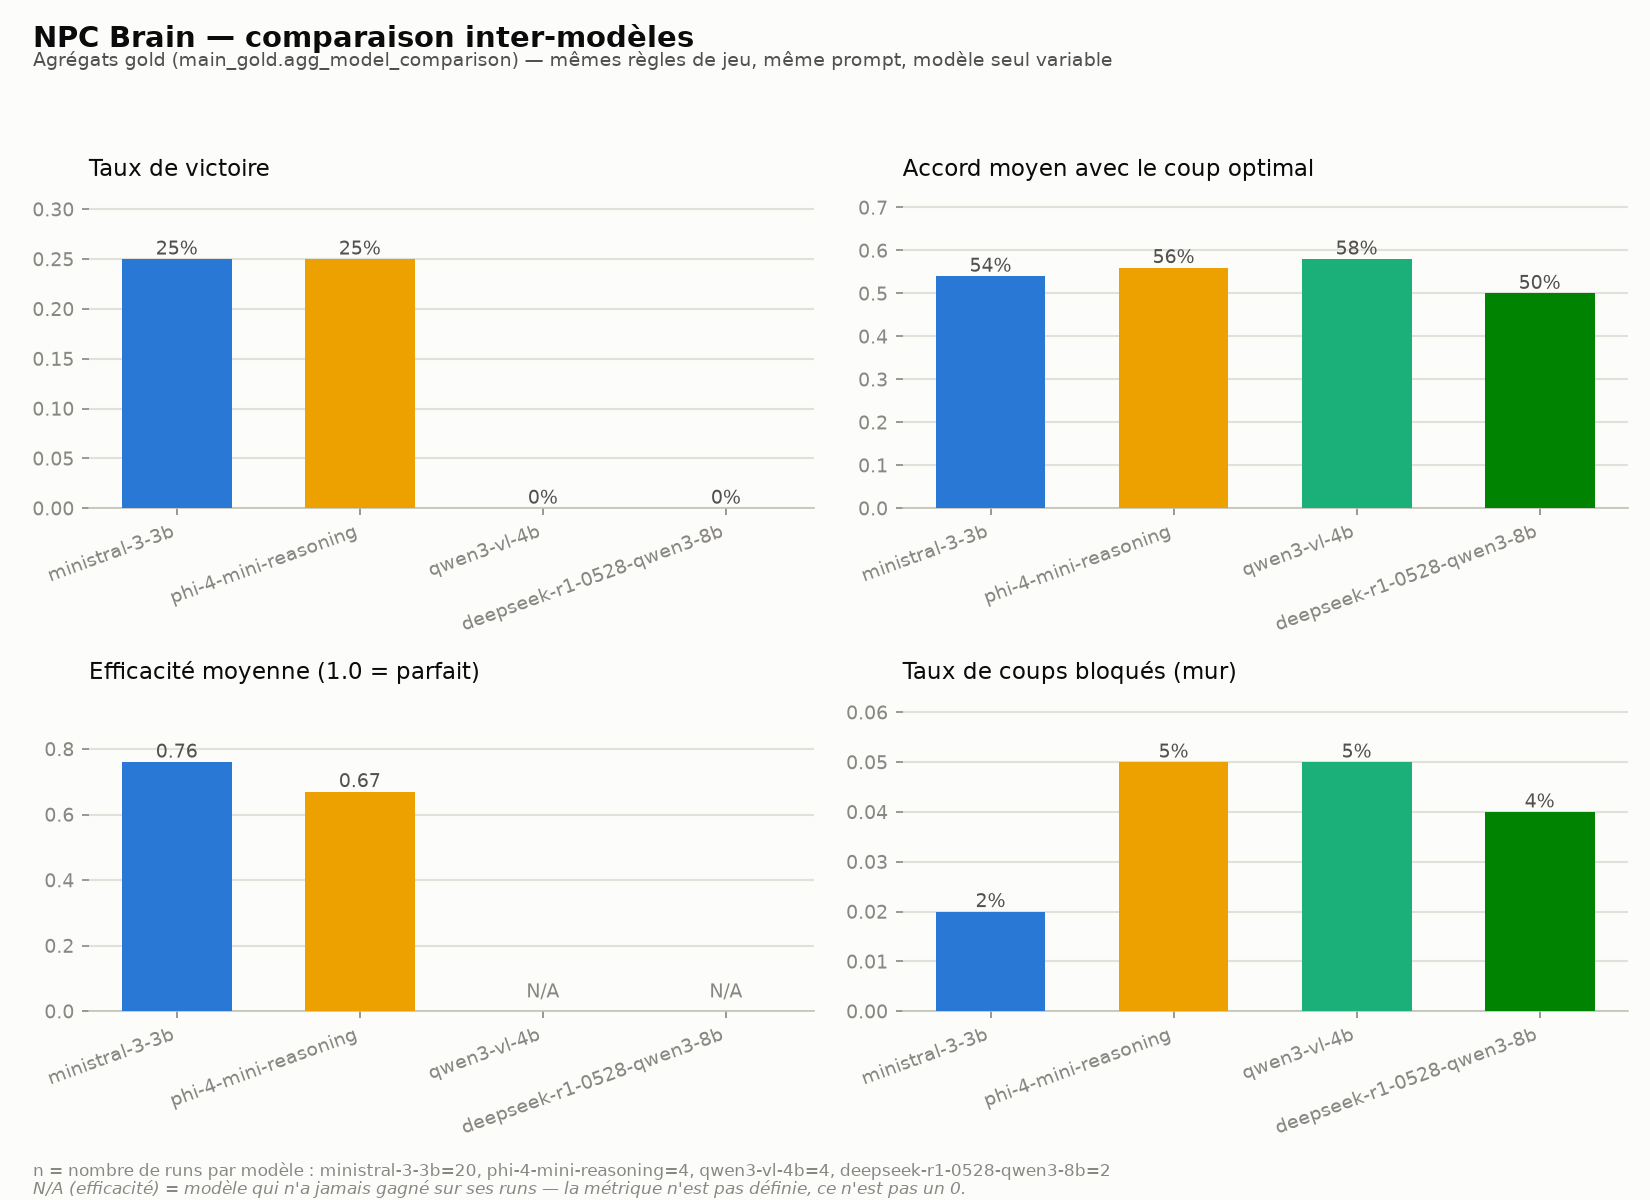
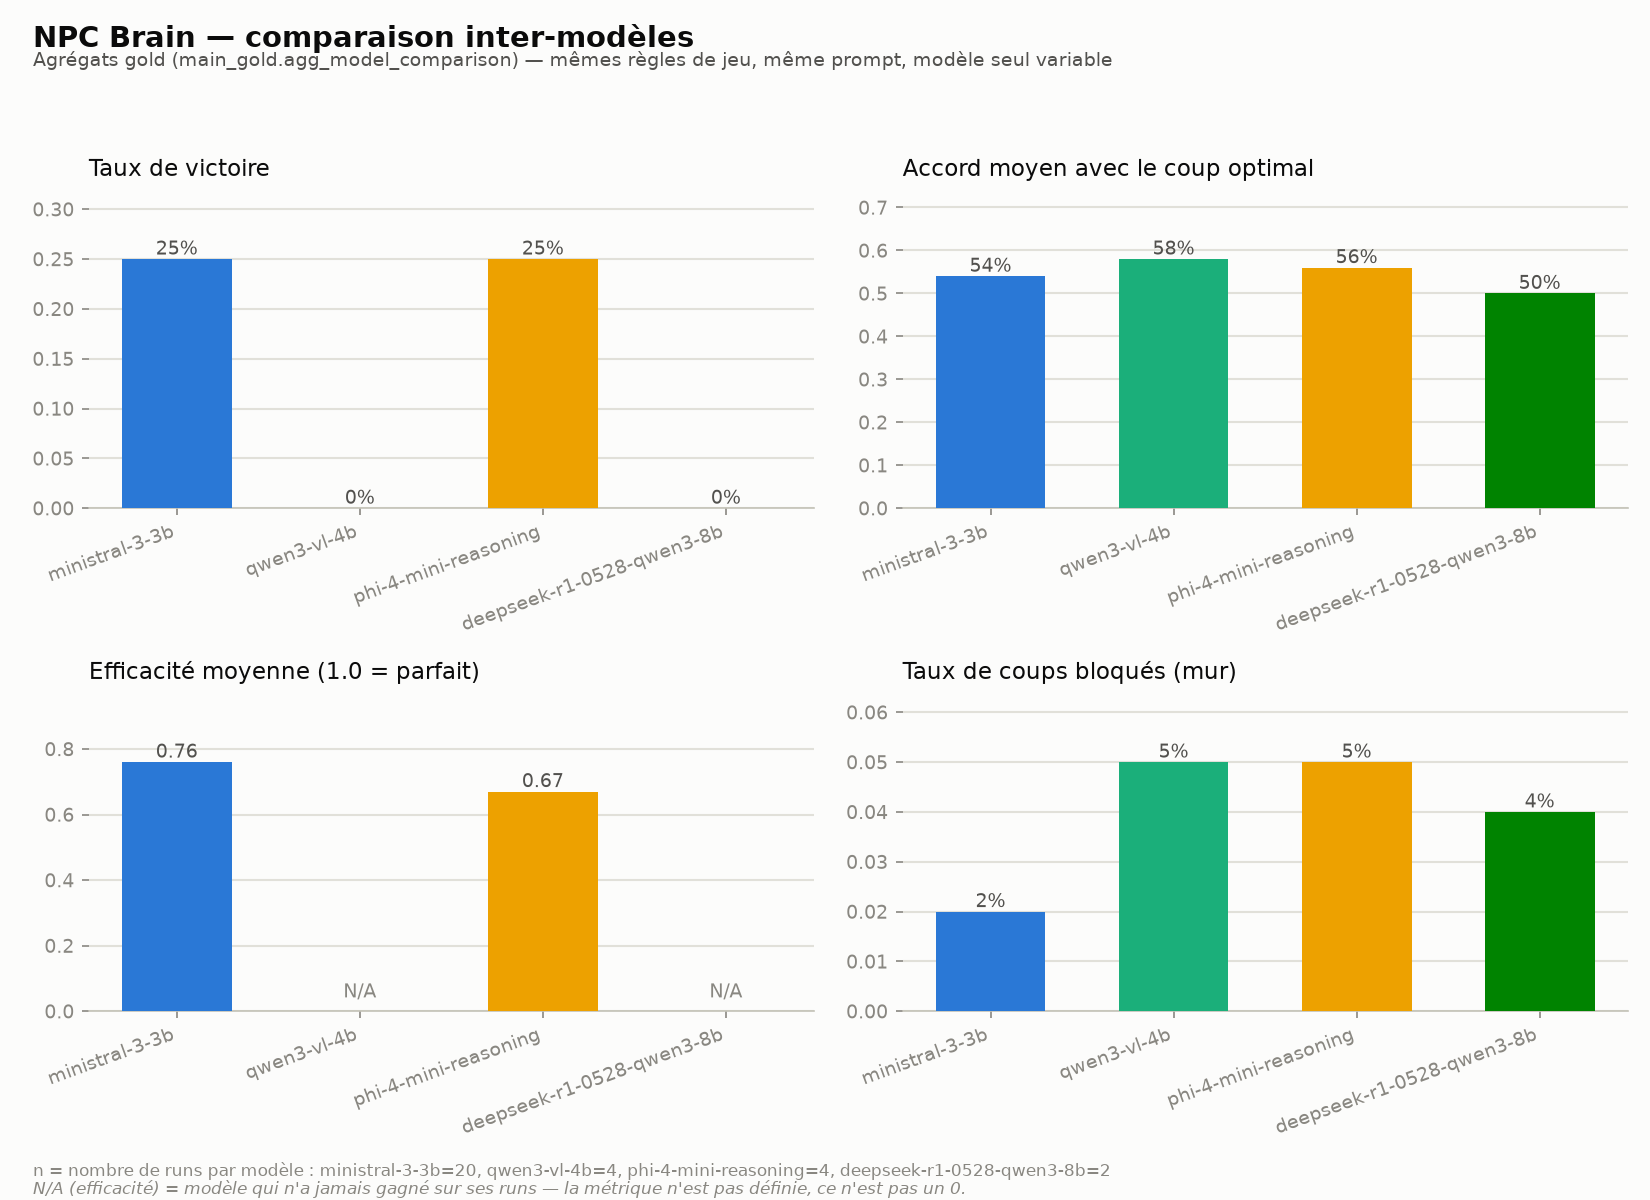
docs

diff --git a/TUTO.md b/TUTO.md
@@ -1,0 +1,110 @@
+# Tuto : utiliser le projet NPC Brain
+
+Ce guide décrit le déroulé complet, du lancement d'une partie jusqu'aux
+graphiques de reporting. Pour l'architecture détaillée, voir [README.md](README.md).
+
+## 1. Prérequis
+
+- Le venv `.venv` avec les dépendances installées : `numpy`, `pygame`, `openai`,
+  `pydantic`, `python-dotenv`, `pandas`, `matplotlib`, `pyarrow`, `duckdb`, `dbt-duckdb`.
+- Un fichier `.env` à la racine avec :
+  ```
+  LLM_API_URL=...
+  LLM_API_TOKEN=...
+  ```
+  pointant vers un serveur LLM compatible OpenAI (LM Studio, Ollama...).
+
+## 2. Lancer une partie simulée (notebook)
+
+1. Ouvrir `npc_brain.ipynb` et exécuter toutes les cellules dans l'ordre.
+2. La dernière cellule lance `npc_viewer.py` en subprocess : une fenêtre
+   Pygame s'ouvre et s'actualise en temps réel pendant que le LLM joue.
+3. Chaque partie est sauvegardée automatiquement dans
+   `runs/run_<modele>_<date>.json`.
+
+## 3. Rejouer une partie a posteriori
+
+```
+python npc_replay.py                      # rejoue le dernier run
+python npc_replay.py runs/run_xxx.json    # rejoue un run précis
+```
+
+Affiche le déplacement tour par tour avec la flèche du coup optimal
+(calculé par `npc_solver.py`, BFS + TSP).
+
+## 4. Benchmark headless (sans Pygame ni notebook)
+
+Comparer plusieurs modèles LLM d'un coup :
+
+```
+python benchmark_runner.py --models qwen/qwen3-vl-4b microsoft/phi-4-mini-reasoning \
+    --n-games 2 --max-turns 15
+```
+
+Comparer sur des typologies de carte différentes (obstacle direct, pièce
+leurre...) — voir `GAME_DESIGN.md` :
+
+```
+python benchmark_runner.py --models mistralai/ministral-3-3b \
+    --typologies aleatoire chemin_bloque piece_leurre --n-games 3 --max-turns 25
+```
+
+## 5. Pipeline data (bronze → silver → gold)
+
+Une fois des runs accumulés dans `runs/*.json`, reconstruire tout le
+pipeline en une commande :
+
+```
+python pipeline/run_pipeline.py
+```
+
+Étapes internes :
+1. `pipeline/export_bronze.py` — aplatit les JSON en parquet (`data/bronze/{runs,decisions}.parquet`)
+2. `pipeline/export_comparisons.py` — calcule BFS+TSP par tour (`data/bronze/comparisons.parquet`)
+3. `dbt run` (dbt-duckdb) — construit silver (`stg_runs`, `stg_decisions`) puis
+   gold (`agg_run_kpi`, `agg_model_comparison`, `agg_typology_kpi`) dans `data/npc.duckdb`
+
+Consulter les résultats :
+
+```python
+import duckdb
+con = duckdb.connect("data/npc.duckdb", read_only=True)
+con.execute("select * from main_gold.agg_run_kpi").df()
+con.execute("select * from main_gold.agg_model_comparison").df()
+con.execute("select * from main_gold.agg_typology_kpi").df()
+```
+
+`data/bronze/*.parquet` et `data/npc.duckdb` sont régénérés à chaque run
+du pipeline (non versionnés) — seule la source de vérité `runs/*.json`
+est conservée.
+
+## 6. Graphiques de reporting
+
+```
+python dataviz/report.py
+```
+
+Lit les tables gold et régénère dans `reports/` :
+- `model_comparison.png` — taux de victoire, accord avec l'optimal, efficacité, taux de blocage, par modèle LLM
+- `per_run_efficiency.png` — nuage de points coups joués vs coups optimaux, par run
+- `typology_comparison.png` — mêmes KPI, par typologie de carte
+
+Pas de mise à jour temps réel : à relancer après chaque
+`python pipeline/run_pipeline.py`.
+
+## Ordre typique d'utilisation
+
+1. Générer des runs (notebook ou `benchmark_runner.py`)
+2. `python pipeline/run_pipeline.py`
+3. `python dataviz/report.py`
+4. Regarder les PNG dans `reports/`, ou requêter `data/npc.duckdb` directement
+
+## KPI disponibles
+
+- `match_rate` — le LLM a-t-il joué le coup optimal ?
+- `efficiency` — coups optimaux / coups réellement joués (1.0 = parfait)
+- `regret` — coups qui n'ont pas rapproché du but
+- `blocked_rate` — proportion de coups joués contre un mur
+- `wasted_turns` — coups en trop par rapport à l'optimal (si victoire)
+
+Détails et hypothèses du benchmark : voir `BENCHMARK.md`.

diff --git a/PROJET.md b/PROJET.md
@@ -1,0 +1,67 @@
+# Le projet, fichier par fichier
+
+## 1. Le cœur de la simulation
+
+**[npc_brain.ipynb](npc_brain.ipynb)** — le fichier principal, le "cerveau". Un notebook Jupyter avec 17 cellules qui, dans l'ordre :
+
+- configure le client LLM (lit `.env`, pointe vers ton serveur OpenAI-compatible local) ;
+- modélise le monde (grille numpy, codes `VOID=0/PLAYER=1/ENEMY=2/GOLD=3`, génération de carte aléatoire) ;
+- définit le contrat de sortie du LLM (`PlayerDecision` en Pydantic : `reason` + `direction`) ;
+- implémente la perception (delta vers l'or le plus proche + directions franchissables, sans jamais dire quoi faire) et le déplacement ;
+- construit le prompt et appelle le LLM (`decide()`) ;
+- fait tourner la partie tour par tour (`run_simulation()`), écrit l'état à chaque coup, et sauvegarde le run complet dans `runs/` ;
+- les dernières cellules (18+) rechargent un run et affichent des stats/graphiques ad hoc (distribution des directions, timeline, comparaison à l'optimal).
+
+**[npc_viewer.py](npc_viewer.py)** — l'affichage. Un vrai process Python séparé (lancé en subprocess par le notebook) qui ouvre une fenêtre Pygame et relit `npc_state.json` en boucle pour afficher la partie en temps réel. Séparé du notebook pour éviter un crash SDL dans le kernel Jupyter sous Windows.
+
+**[npc_replay.py](npc_replay.py)** — rejoue a posteriori un run sauvegardé (`runs/*.json`), tour par tour, avec navigation clavier (←/→, espace pour l'autoplay). Affiche en plus la flèche du coup optimal à côté de celle jouée par le LLM, pour visualiser où il s'est trompé.
+
+## 2. Le benchmark (agent optimal + comparaison)
+
+**[npc_solver.py](npc_solver.py)** — la référence absolue du projet. Calcule le meilleur chemin possible pour ramasser tout l'or (BFS pour les distances/chemins exacts, TSP par force brute pour l'ordre optimal de visite des pièces). Fournit aussi `compare_run()`, qui rejoue un run du LLM coup par coup contre cet optimal et calcule les KPI (`match_rate`, `efficiency`, `regret`, etc.). C'est le module que tout le reste du projet réutilise pour ne jamais recalculer deux fois la même logique.
+
+**[map_typologies.py](map_typologies.py)** — les 3 scénarios de carte : `aleatoire` (génération procédurale), `chemin_bloque` (un mur d'ennemis bloque le passage évident), `piece_leurre` (une pièce très proche en ligne droite mais très coûteuse en vrai chemin — un piège pour un agent qui suivrait bêtement le signal de proximité). Chaque fonction retourne une grille numpy compatible avec `npc_solver.py`.
+
+**[benchmark_runner.py](benchmark_runner.py)** — le harnais headless : fait jouer un ou plusieurs modèles LLM, sur une ou plusieurs typologies, sans Pygame ni notebook. C'est ce qui a permis de générer les runs pour `qwen3-vl-4b`, `phi-4-mini-reasoning`, `deepseek-r1` et les typologies `chemin_bloque`/`piece_leurre`, tout en écrivant des fichiers `runs/*.json` avec exactement le même schéma que le notebook.
+
+## 3. Le pipeline de données (bronze → silver → gold)
+
+**[pipeline/export_bronze.py](pipeline/export_bronze.py)** — lit tous les `runs/*.json` et les aplatit en deux tables parquet : `data/bronze/runs.parquet` (une ligne par partie) et `data/bronze/decisions.parquet` (une ligne par tour). Aucun calcul, juste du typage — c'est la couche bronze.
+
+**[pipeline/export_comparisons.py](pipeline/export_comparisons.py)** — calcule, pour chaque run avec une carte initiale, la comparaison tour par tour avec l'agent optimal (réutilise `compare_run()` de `npc_solver.py`). Écrit `data/bronze/comparisons.parquet`. C'est fait en Python (pas en SQL) parce que le BFS/TSP n'est pas exprimable proprement en dbt.
+
+**[pipeline/run_pipeline.py](pipeline/run_pipeline.py)** — le point d'entrée unique : enchaîne les deux scripts ci-dessus puis `dbt run`. C'est la commande à relancer après chaque nouvelle partie.
+
+**[dbt/npc_benchmark/](dbt/npc_benchmark/)** — le projet dbt-duckdb :
+
+- `dbt_project.yml` / `profiles.yml` : config du projet et connexion à `data/npc.duckdb`.
+- `models/staging/sources.yml` : déclare les 3 fichiers parquet bronze comme sources.
+- `models/staging/stg_runs.sql`, `stg_decisions.sql` : couche **silver** — types nettoyés, jointure decisions↔comparisons.
+- `models/marts/agg_run_kpi.sql` : couche **gold**, un run = une ligne de KPI.
+- `models/marts/agg_model_comparison.sql` : gold, KPI agrégés par modèle LLM.
+- `models/marts/agg_typology_kpi.sql` : gold, KPI agrégés par typologie de carte.
+
+**[data/](data/)** — sorties générées par le pipeline (parquet bronze + `npc.duckdb` contenant silver/gold). Non versionné dans git (voir `.gitignore`), régénéré à volonté depuis `runs/*.json`.
+
+## 4. Dataviz
+
+**[dataviz/report.py](dataviz/report.py)** — lit les tables gold via duckdb et produit 3 graphiques dans `reports/` : comparaison inter-modèles, nuage de points coups joués vs optimaux par run, comparaison inter-typologies. Palette catégorielle validée (skill dataviz), gère explicitement les valeurs "non définies" (ex. efficacité d'un modèle qui n'a jamais gagné) pour ne jamais afficher un 0 trompeur.
+
+**[reports/](reports/)** — les 3 PNG produits par le script ci-dessus.
+
+## 5. Documentation
+
+- **[README.md](README.md)** — vue d'ensemble technique : structure, comment lancer chaque script, architecture du pipeline.
+- **[GAME_DESIGN.md](GAME_DESIGN.md)** — tranche et justifie les règles de jeu (plusieurs pièces, pas de combat, layout de départ) en réponse directe à `SPECS.md` §1.2.
+- **[BENCHMARK.md](BENCHMARK.md)** — objectifs et 4 axes du benchmark (charge algo, qualité LLM, modèles, typologies), hypothèses testées, définitions des KPI.
+- **[doc.md](doc.md)** — documentation cellule par cellule du notebook.
+- **[TUTO.md](TUTO.md)** — guide pas-à-pas d'utilisation, renvoie vers le README pour l'architecture détaillée.
+- **[SPECS.md](SPECS.md)** — l'énoncé du projet fourni par le formateur.
+- **[Tree.md](Tree.md)** — arbre de fichiers généré par une extension VS Code ("FileTree Pro"), simple instantané non maintenu.
+
+## 6. Données et config
+
+- **[runs/](runs/)** — la source de vérité : un JSON par partie jouée (carte initiale, décisions du LLM, solution optimale), qu'elle vienne du notebook ou de `benchmark_runner.py`.
+- **`.env`** — `LLM_API_URL` / `LLM_API_TOKEN`, non versionné.
+- **`.python-version`** — fixe la version Python du projet.
+- **`.gitignore`** — exclut le venv, les artefacts générés (parquet, duckdb, logs dbt, `__pycache__`) et les logs temporaires de benchmark.